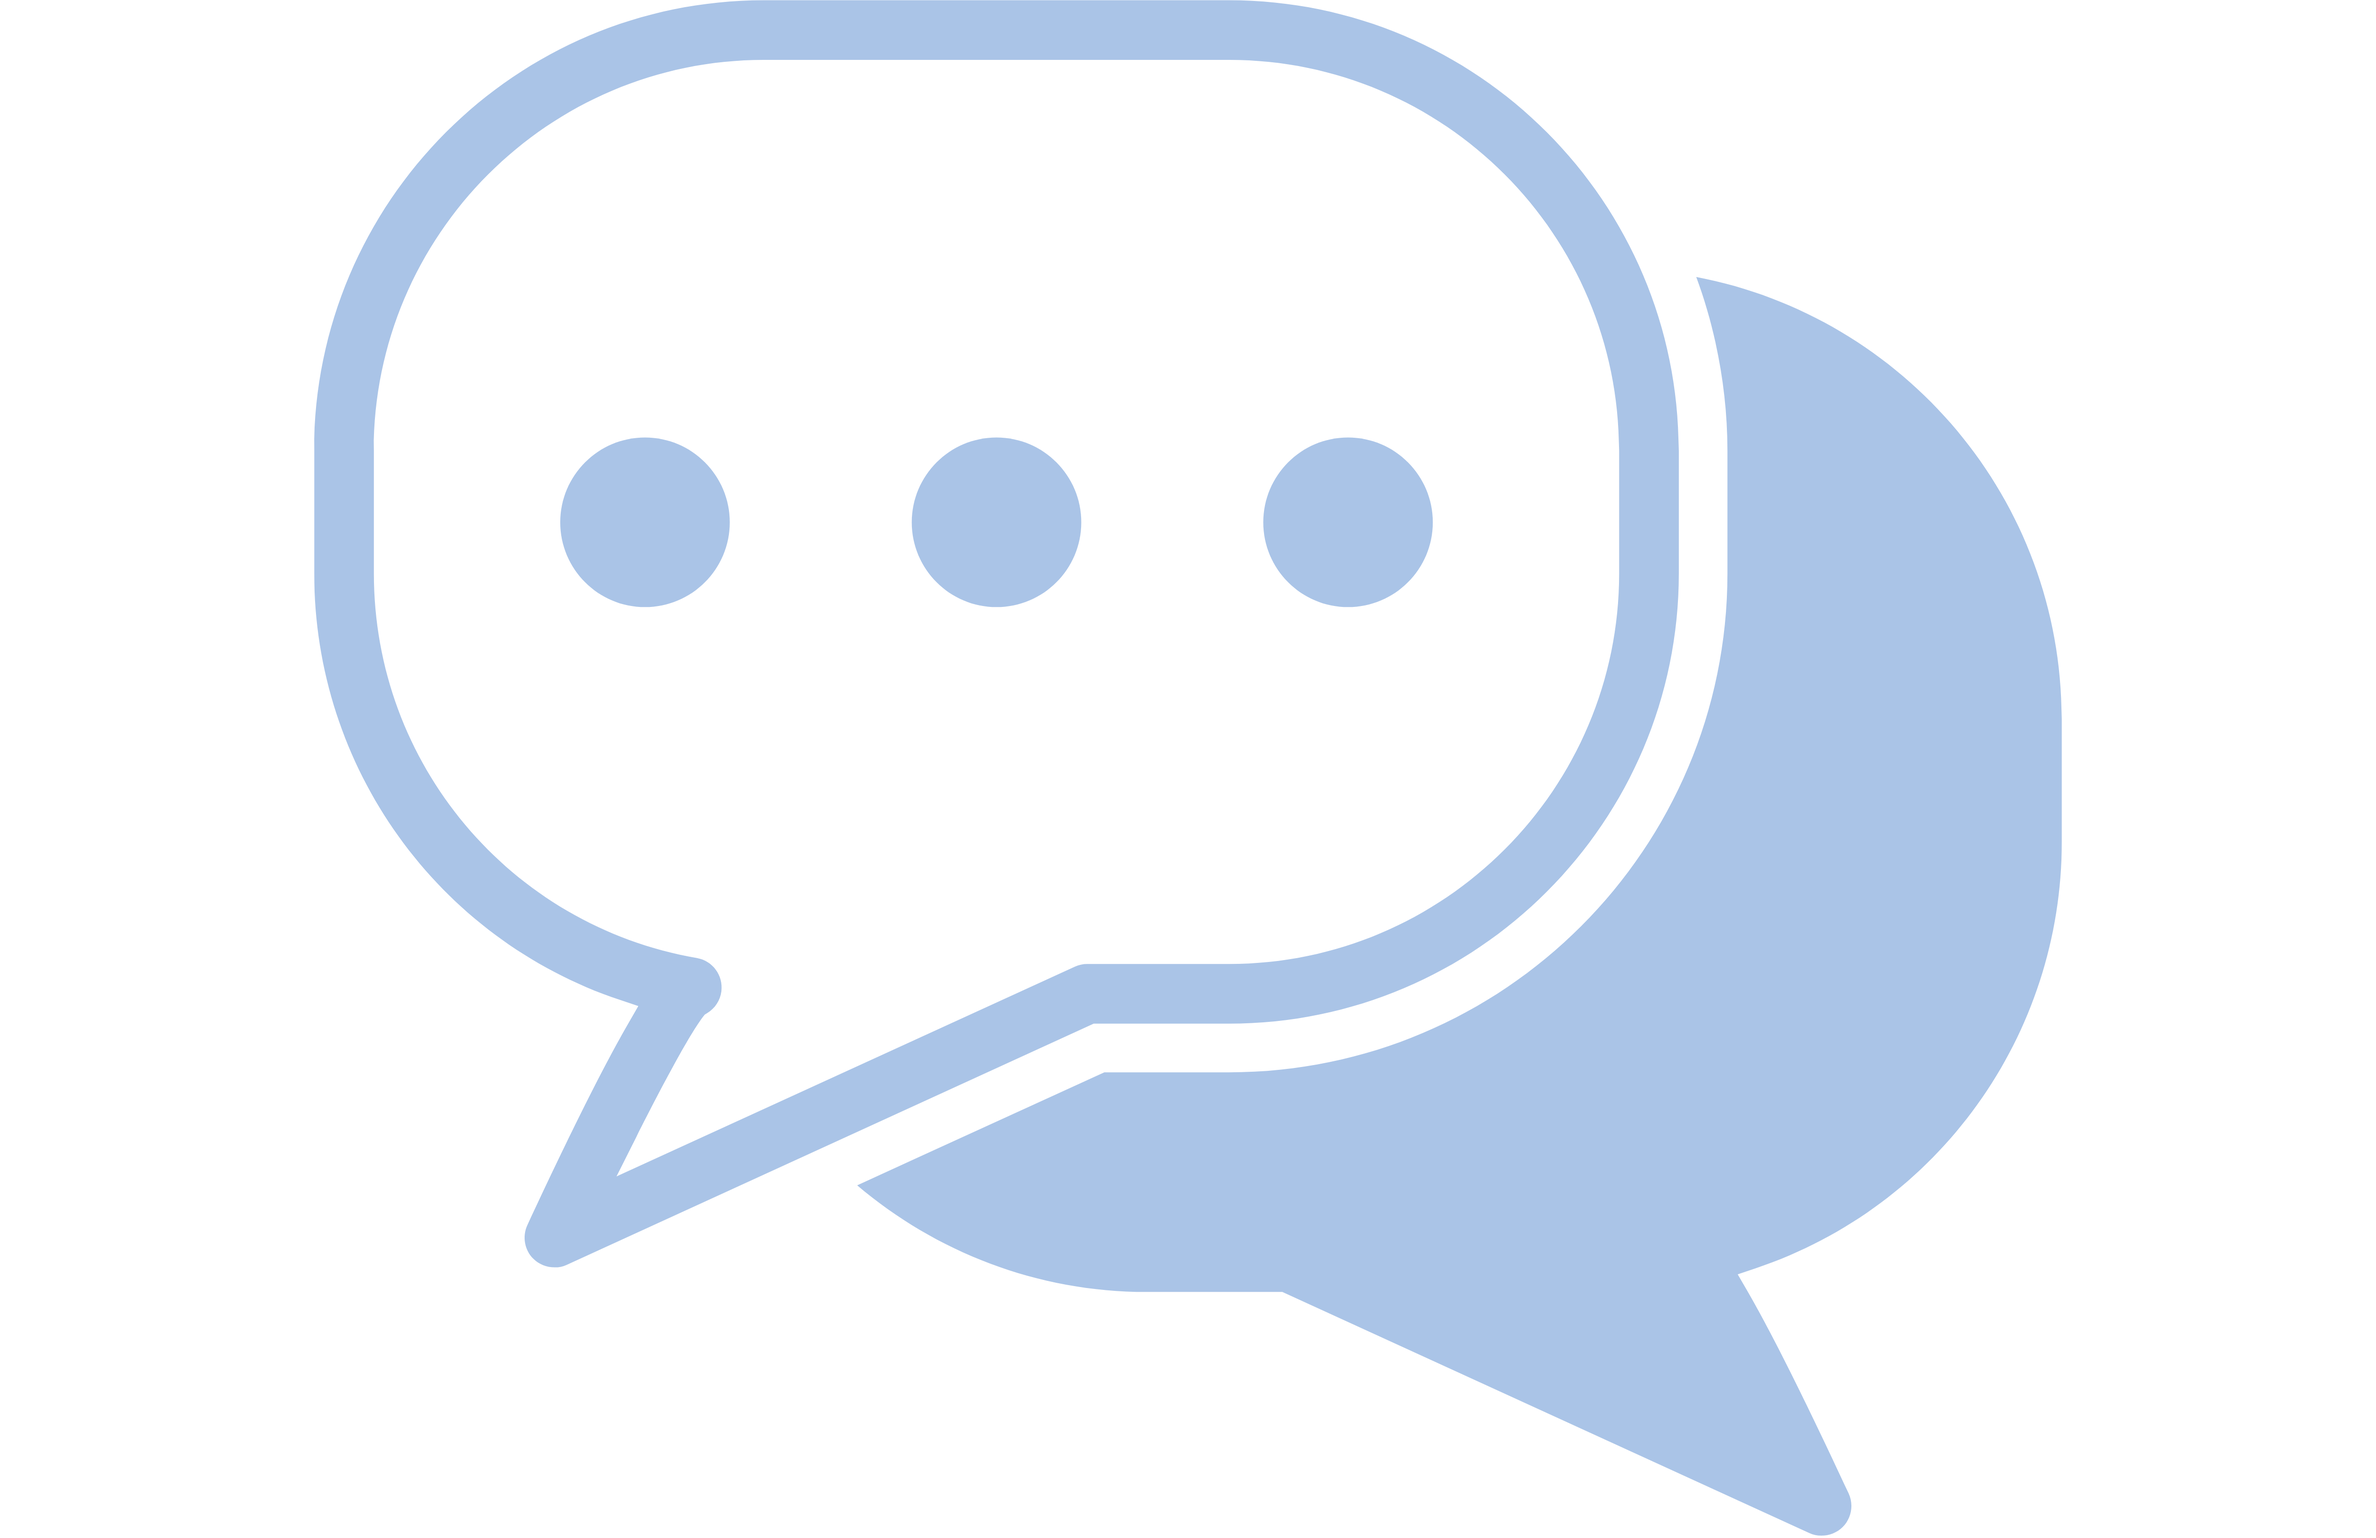
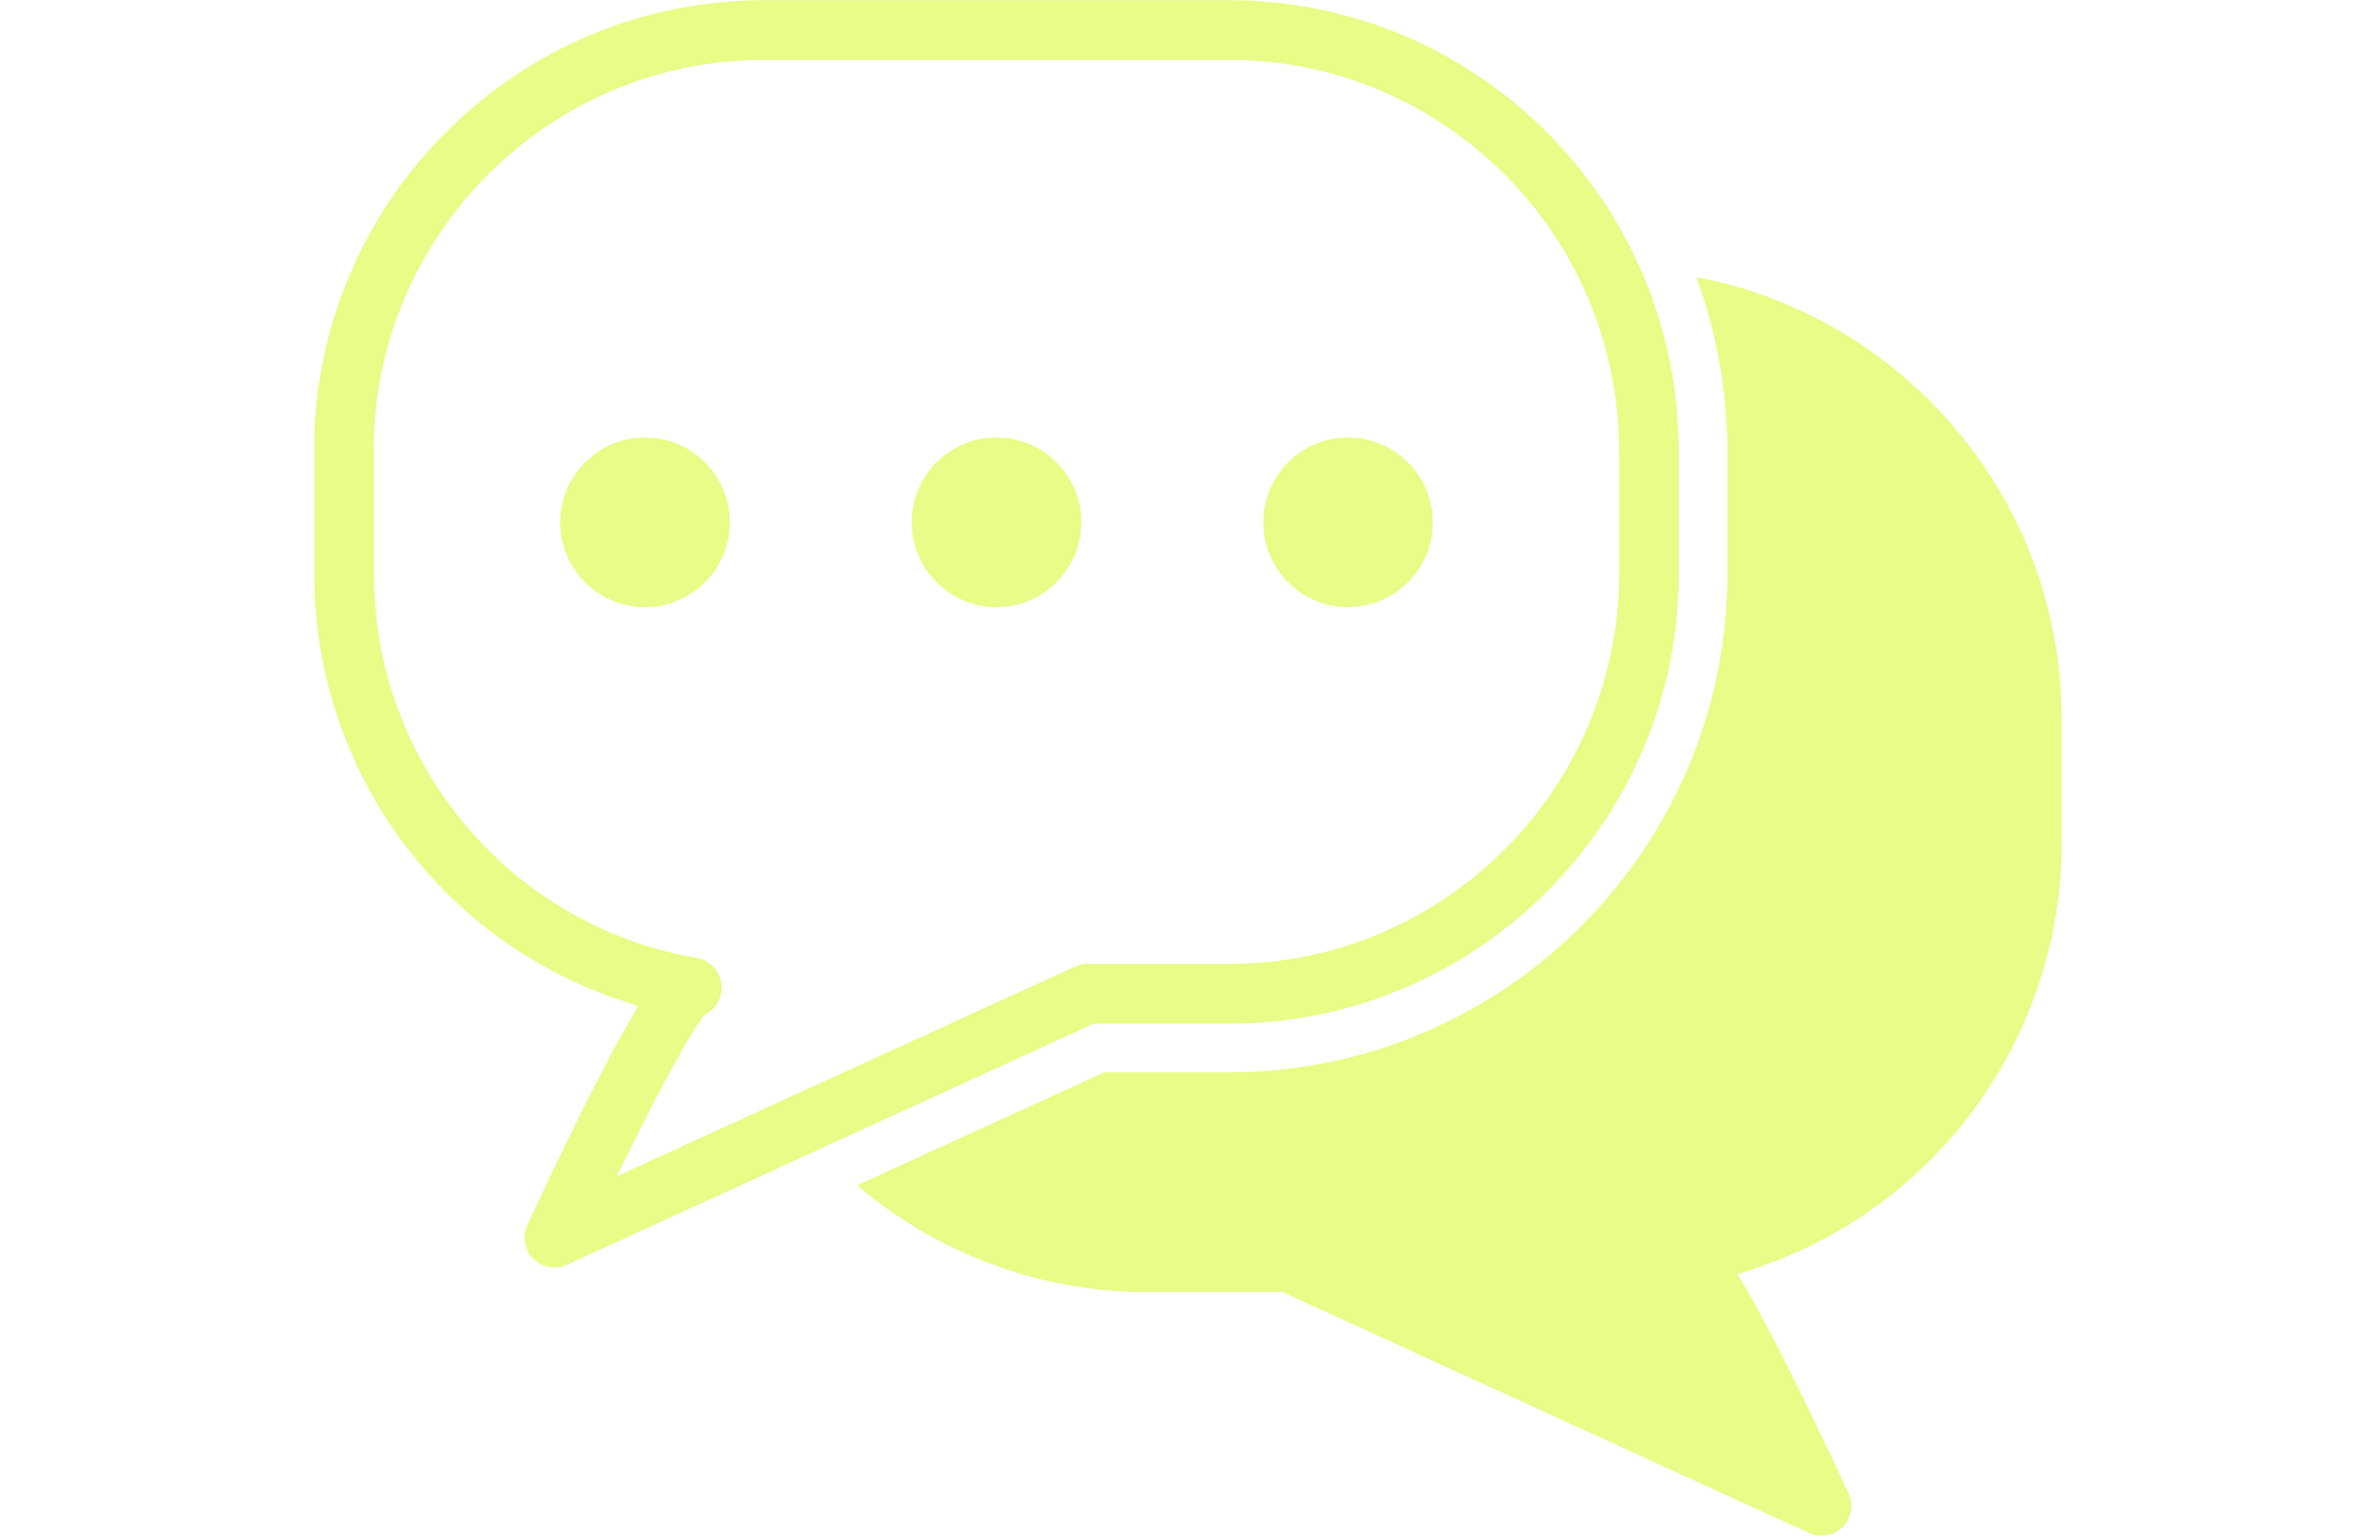
style : colors update

diff --git a/src/pages/About.jsx b/src/pages/About.jsx
@@ -6,7 +6,7 @@ const About = () => {
   const styledItem =
     "px-4 py-2 text-sm bg-[#fff1] rounded-lg shadow-md cursor-pointer transition hover:shadow-xl";
   const socilaMedia =
-    "text-2xl w-10 h-10 flex items-center justify-center rounded-full bg-transparent border-[1px] border-[#aac4e7] hover:bg-[#aac4e7] hover:border-transparent hover:text-slate-700 ";
+    "text-2xl w-10 h-10 flex items-center justify-center rounded-full bg-transparent border-[1px] border-[#e9fc87] hover:bg-[#e9fc87] hover:border-transparent hover:text-slate-700 ";
   return (
     <section
       id="about"
@@ -28,17 +28,17 @@ const About = () => {
               width="400px"
               alt="img"
               className="relative w-full h-full scale-110 object-cover z-30 "
-              style={{ filter: "drop-shadow(0 0 20px #aac4e783)" }}
+              style={{ filter: "drop-shadow(0 0 20px #e9fc8783)" }}
             />
-            <div className="absolute top-[30px] left-[30px] w-full h-full z-10 border-[10px] border-[#aac4e7] "></div>
+            <div className="absolute top-[30px] left-[30px] w-full h-full z-10 border-[10px] border-[#e9fc87] "></div>
           </div>
         </div>
         <div className="w-[50%] max-w-[600px] text-white flex flex-col gap-2 ">
           <div className="text-lg">
             My name is{" "}
             <span
-              style={{ textShadow: "0 0 40px #aac4e7" }}
-              className="text-[#aac4e7]"
+              style={{ textShadow: "0 0 40px #e9fc87" }}
+              className="text-[#e9fc87]"
             >
               Oussama chid
             </span>
@@ -54,19 +54,19 @@ const About = () => {
           </div>
           <div className="grid grid-cols-2 gap-x-16 gap-y-6 place-content-center text-center">
             <div className={styledItem}>
-              <h2 className="text-[#aac4e7] mb-1">Name</h2>
+              <h2 className="text-[#e9fc87] mb-1">Name</h2>
               <div className="font-semibold ">Oussama Ichid</div>
             </div>
             <div className={styledItem}>
-              <h2 className="text-[#aac4e7] mb-1 ">Phone</h2>
+              <h2 className="text-[#e9fc87] mb-1 ">Phone</h2>
               <div className="font-semibold">+212 600 000 000</div>
             </div>
             <div className={styledItem}>
-              <h2 className="text-[#aac4e7] mb-1 ">Country</h2>
+              <h2 className="text-[#e9fc87] mb-1 ">Country</h2>
               <div className="font-semibold">Morocco</div>
             </div>
             <div className={styledItem}>
-              <h2 className="text-[#aac4e7] mb-1 ">Email</h2>
+              <h2 className="text-[#e9fc87] mb-1 ">Email</h2>
               <div className="font-semibold">oussamaichid@gmail.com</div>
             </div>
           </div>

diff --git a/src/components/ServiceItem.jsx b/src/components/ServiceItem.jsx
@@ -4,13 +4,13 @@ const ServiceItem = ({ icon, title, text }) => {
   return (
     <div className="relative contai">
       <div className="relative z-10 backdrop-blur-sm flex flex-col items-center justify-center min-h-64 gap-4 p-4 bg-[#ffffff10] text-[#EDEDDF] rounded-md shadow-md">
-        <div className="text-3xl text-[#aac4e7]"> {icon} </div>
+        <div className="text-3xl text-[#d9ec77]"> {icon} </div>
         <div className="font-semibold"> {title} </div>
         <div className="text-center text-sm opacity-70"> {text} </div>
       </div>
-      <div className="dec1 absolute h-[36px] w-[36px]  bg-[#aac4e7] rounded-full z-0 top-[-10px] left-[-10px]"></div>
-      <div className="dec2 absolute h-[26px] w-[26px]  bg-[#aac4e7] rounded-full z-0 top-[30px] left-[-6px]"></div>
-      <div className="dec3 absolute h-[16px] w-[16px]  bg-[#aac4e7] rounded-full z-0 top-[60px] left-[-2px]"></div>
+      <div className="dec1 absolute h-[36px] w-[36px]  bg-[#ffbe98] rounded-full z-0 top-[-10px] left-[-10px]"></div>
+      <div className="dec2 absolute h-[26px] w-[26px]  bg-[#ffbe98] rounded-full z-0 top-[30px] left-[-6px]"></div>
+      <div className="dec3 absolute h-[16px] w-[16px]  bg-[#ffbe98] rounded-full z-0 top-[60px] left-[-2px]"></div>
     </div>
   );
 };

diff --git a/src/pages/PortfoliSection.jsx b/src/pages/PortfoliSection.jsx
@@ -21,15 +21,15 @@ const PortfoliSection = () => {
       <div className="z-0 mb-10">
         <Heading title="PORTFOLIO" background="PORTFOLIO" />
       </div>
-      <div className="flex items-center gap-10 text-[#e2e2e2] text-xl">
+      <div className="flex items-center gap-10 text-[#fffeec] text-xl">
         <button
-          className={activeSection === "logos" ? "text-[#7a9aec]" : ""}
+          className={activeSection === "logos" ? "text-[#ffbe98]" : ""}
           onClick={() => handleButtonClick("logos")}
         >
           Logos
         </button>
         <button
-          className={activeSection === "sm" ? "text-[#7a9aec]" : ""}
+          className={activeSection === "sm" ? "text-[#ffbe98]" : ""}
           onClick={() => handleButtonClick("sm")}
         >
           Social Media

diff --git a/src/pages/Galery.jsx b/src/pages/Galery.jsx
@@ -21,15 +21,15 @@ const Galery = () => {
       <div className="z-0 mb-10">
         <Heading title="GALERY" background="GALERY" />
       </div>
-      <div className="flex items-center gap-10 text-[#e2e2e2] text-xl">
+      <div className="flex items-center gap-10 text-[#fffeec] text-xl">
         <button
-          className={activeSection === "photos" ? "text-[#7a9aec]" : ""}
+          className={activeSection === "photos" ? "text-[#ffbe98]" : ""}
           onClick={() => handleButtonClick("photos")}
         >
           Photos
         </button>
         <button
-          className={activeSection === "videos" ? "text-[#7a9aec]" : ""}
+          className={activeSection === "videos" ? "text-[#ffbe98]" : ""}
           onClick={() => handleButtonClick("videos")}
         >
           Videos

diff --git a/src/components/Footer.jsx b/src/components/Footer.jsx
@@ -2,10 +2,10 @@ import { FaFacebookF, FaInstagram, FaBehance, FaTwitter } from "react-icons/fa";
 
 const Footer = () => {
   const socilaMedia =
-    "text-2xl w-10 h-10 flex items-center justify-center rounded-full border-[1px] border-[#fff]  ";
+    "text-2xl w-10 h-10 flex items-center justify-center rounded-full border-[1px] border-[#141414]  ";
 
   return (
-    <footer className="bg-[#aac4e7] px-16 pt-10 pb-4 flex flex-col items-center">
+    <footer className="bg-[#e9fc87] px-16 pt-10 pb-4 flex flex-col items-center">
       <div className="flex items-center justify-between w-full">
         <div className="flex items-center gap-4">
           <a href="/#home">Home</a>

diff --git a/src/pages/HeroSection.jsx b/src/pages/HeroSection.jsx
@@ -11,10 +11,10 @@ const HeroSection = () => {
         <div className="text-9xl font-bold">
           <div>GRAPHIC</div>
           <div>
-            DESIGNER<span className="text-[#aac4e7]">.</span>
+            DESIGNER<span className="text-[#e9fc87]">.</span>
           </div>
         </div>
-        <div className="bg-[#aac4e7] place-self-start text-md px-1 tracking-wide shadow-md">
+        <div className="bg-[#e9fc87] text-black place-self-start text-md px-1 tracking-wide shadow-md">
           CONTACT ME
         </div>
       </div>

diff --git a/src/components/Heading.jsx b/src/components/Heading.jsx
@@ -1,9 +1,9 @@
 const Heading = ({ title, background }) => {
   return (
-    <div className="relative py-4 px-6 text-[#aac4e7] flex items-center justify-center">
+    <div className="relative py-4 px-6 text-[#e9fc87] flex items-center justify-center">
       <h1
         className="relative text-6xl font-light z-20 "
-        style={{ textShadow: "0 0 25px #aac4e7 , 0 0 35px #aac4e7" }}
+        style={{ textShadow: "0 0 25px #e9fc87 , 0 0 35px #e9fc87" }}
       >
         {title}
       </h1>

diff --git a/src/pages/Contact.jsx b/src/pages/Contact.jsx
@@ -112,7 +112,7 @@ export const Contact = () => {
           <input
             type="submit"
             value="Send"
-            className="bg-[#aac4e7] py-3 rounded-md w-[50%] self-center cursor-pointer text-sky-900 hover:bg-[#a0bbdf] "
+            className="bg-[#e9fc87] py-3 rounded-md w-[50%] self-center cursor-pointer text-[#141414] hover:bg-[#d3e675] "
           />
         </form>
         <div className="absolute h-full w-full rounded-[50%] z-0 top-0 left-0 p-12">

diff --git a/src/components/SkillItem.jsx b/src/components/SkillItem.jsx
@@ -13,8 +13,8 @@ const SkillItem = ({ title, percentage, icon }) => {
           percent={percentage}
           strokeWidth={2}
           trailWidth={2}
-          strokeColor="#7a9aec"
-          trailColor="#cae4f7"
+          strokeColor="#d9ec77"
+          trailColor="#feffd7"
         />
         <div className="absolute bottom-4 right-2 text-slate-50 text-sm">
           {percentage}%

diff --git a/src/components/Navbar.jsx b/src/components/Navbar.jsx
@@ -11,7 +11,7 @@ const Navbar = () => {
   };
   window.addEventListener("scroll", changeColor);
   const menuItemStyle =
-    "transition hover:text-[#CCE5E3] border-b-[1.5px] border-b-transparent hover:border-b-[#CCE5E3] cursor-pointer";
+    "transition hover:text-[#ffbe98] border-b-[1.5px] border-b-transparent hover:border-b-[#ffbe98] cursor-pointer";
 
   return (
     <nav

diff --git a/src/pages/Skills.jsx b/src/pages/Skills.jsx
@@ -54,7 +54,7 @@ const Skills = () => {
       <div className="text-center mt-16">
         <h1 className="text-3xl font-bold text-slate-50 tracking-widest">
           I'm Available For{" "}
-          <span className="text-slate-400 underline">FreeLance !</span>
+          <span className="text-yellow-50 underline">FreeLance !</span>
         </h1>
       </div>
     </div>

diff --git a/src/main.jsx b/src/main.jsx
@@ -23,7 +23,7 @@ ReactDOM.createRoot(document.getElementById("root")).render(
       <Footer />
     </Router>
     <Toaster
-      position="bottom-right"
+      position="top-center"
       // containerClassName="bg-[#aac4e7]"
       // containerStyle={{ background: "#292929", color: "#aac4e7" }}
     />
